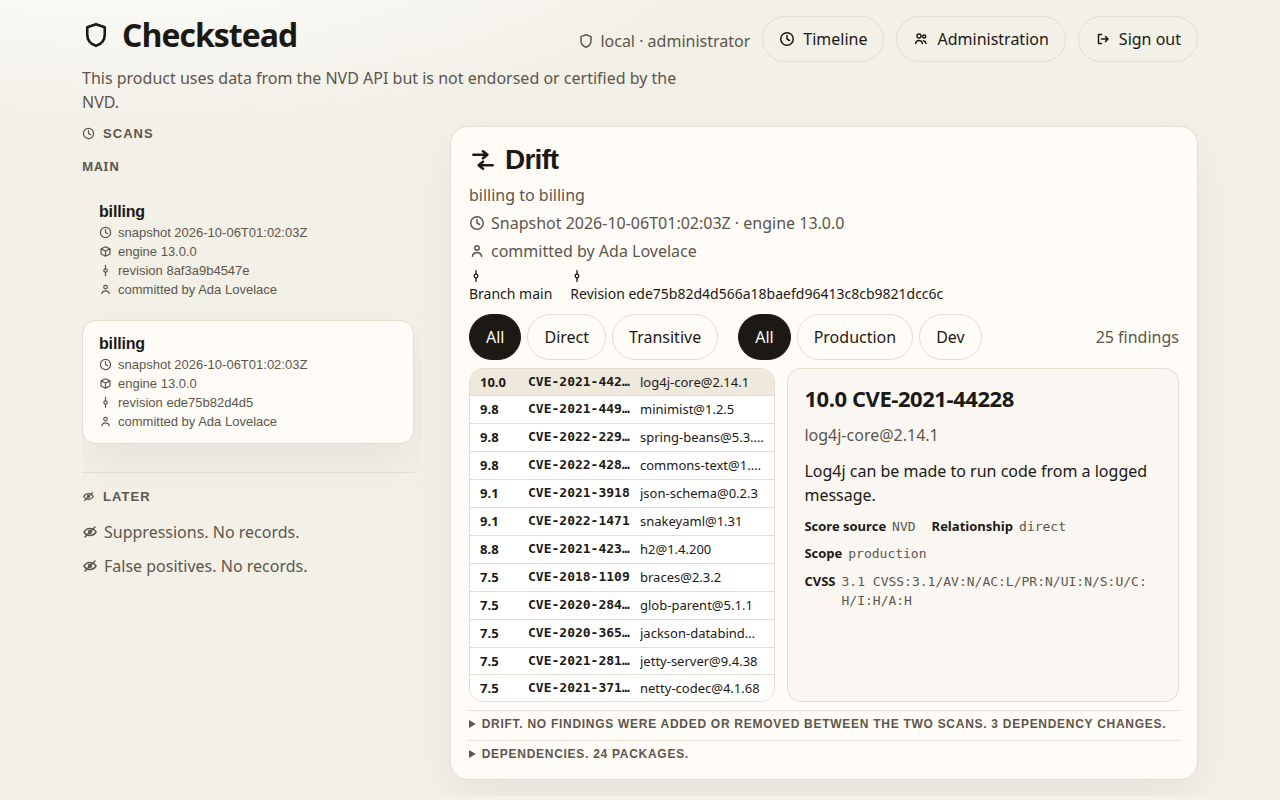
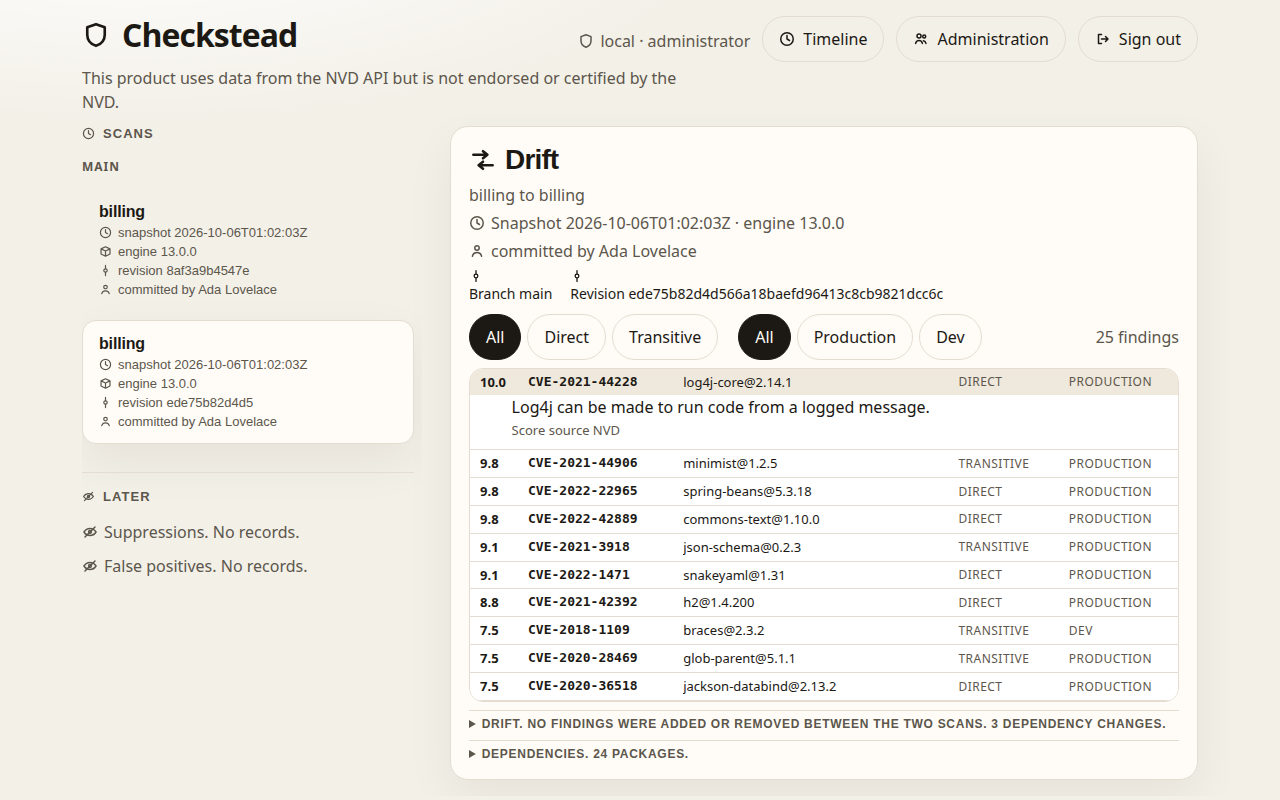
Use one dense finding list instead of a side panel.
Each line shows the score, id, package, relationship, and scope. The selected line expands only for the description and score source, and the list still scrolls inside its pane.

Changed region(s): [[0.375, 0.4375, 0.9062, 0.875], [0.8438, 0.4688, 0.9062, 0.5]]

diff --git a/src/checkstead/ui_page.html b/src/checkstead/ui_page.html
@@ -119,24 +119,17 @@
     .scan-view .identity { margin-top: 4px; }
     .finding-toolbar {
       display: flex;
-      flex-wrap: wrap;
+      flex-wrap: nowrap;
       gap: 8px 16px;
       align-items: center;
-      justify-content: space-between;
       margin: 10px 0 8px;
     }
-    .finding-filters { display: flex; flex-wrap: wrap; gap: 12px 20px; margin: 0; }
-    .finding-filters div { display: flex; flex-wrap: wrap; gap: 6px; }
+    .finding-filters { display: flex; flex-wrap: nowrap; gap: 12px 20px; margin: 0; }
+    .finding-filters div { display: flex; flex-wrap: nowrap; gap: 6px; }
     .finding-filters button[aria-pressed="true"] { background: var(--ink); color: var(--panel); border-color: var(--ink); }
-    .finding-count { margin: 0; color: var(--muted); }
-    .finding-split {
-      flex: 1;
-      min-height: 0;
-      display: grid;
-      grid-template-columns: minmax(220px, 0.9fr) minmax(240px, 1.15fr);
-      gap: 12px;
-    }
+    .finding-count { margin: 0 0 0 auto; color: var(--muted); white-space: nowrap; }
     .finding-window {
+      flex: 1;
       min-height: 0;
       overflow: auto;
       border: 1px solid var(--line);
@@ -148,7 +141,7 @@
     .finding-row { border: 0; border-radius: 0; background: transparent; border-bottom: 1px solid var(--line); }
     .finding-row > button {
       display: grid;
-      grid-template-columns: 2.5rem minmax(6.5rem, 0.9fr) minmax(0, 1.4fr);
+      grid-template-columns: 2.5rem 9.2rem minmax(0, 1fr) 6.4rem 6.2rem;
       gap: 8px;
       align-items: center;
       width: 100%;
@@ -167,25 +160,9 @@
     .vuln-id, .finding-package { overflow: hidden; text-overflow: ellipsis; white-space: nowrap; }
     .vuln-id { font: 600 13px/1.3 ui-monospace, monospace; }
     .finding-kind, .finding-source { font-size: 12px; letter-spacing: 0.04em; text-transform: uppercase; color: var(--muted); }
-    .finding-selected {
-      min-height: 0;
-      overflow: auto;
-      display: grid;
-      align-content: start;
-      gap: 10px;
-      padding: 16px;
-      border: 1px solid var(--line);
-      border-radius: 14px;
-      background: #faf7f2;
-    }
-    .finding-selected h3 {
-      margin: 0;
-      font: 650 22px/1.2 ui-sans-serif, "Segoe UI", sans-serif;
-      letter-spacing: -0.02em;
-      text-transform: none;
-      color: var(--ink);
-    }
+    .finding-extra { display: grid; gap: 2px; padding: 0 10px 8px 2.6rem; }
     .finding-text { margin: 0; }
+    .finding-extra .finding-source { margin: 0; text-transform: none; letter-spacing: 0; font-size: 13px; }
     .fold { margin-top: 8px; border-top: 1px solid var(--line); padding-top: 6px; }
     .fold summary {
       cursor: pointer;
@@ -195,11 +172,6 @@
       text-transform: uppercase;
     }
     .fold[open] { min-height: 0; max-height: 34%; overflow: auto; }
-    .finding-cvss { display: flex; flex-wrap: wrap; gap: 8px 16px; margin: 0; color: var(--muted); font-size: 13px; }
-    .finding-cvss div { display: flex; gap: 6px; }
-    .finding-cvss dt, .finding-cvss dd { margin: 0; }
-    .finding-cvss dt { font-weight: 650; color: var(--ink); }
-    .finding-cvss dd { font-family: ui-monospace, monospace; word-break: break-all; }
     .tag { font-size: 12px; font-weight: 650; letter-spacing: 0.04em; text-transform: uppercase; }
     .added .tag { color: var(--added); }
     .removed .tag { color: var(--removed); }
@@ -241,8 +213,9 @@
     @media (max-width: 800px) {
       main, body.app main { grid-template-columns: 1fr; height: auto; }
       body.app { height: auto; overflow: auto; }
-      .finding-split { grid-template-columns: 1fr; }
-      .finding-window { max-height: 40vh; }
+      .finding-toolbar, .finding-filters, .finding-filters div { flex-wrap: wrap; }
+      .finding-row > button { grid-template-columns: 2.5rem minmax(7rem, 1fr) minmax(0, 1.2fr) auto auto; }
+      .finding-window { max-height: 40vh; flex: none; }
       header, main, #gate, #admin { padding-left: 16px; padding-right: 16px; }
       .timeline { padding-right: 0; }
     }
@@ -543,7 +516,7 @@
       detail.append(identityLine(scan));
       const items = visibleFindings(scan.findings || []);
       detail.append(findingToolbar(items.length));
-      detail.append(findingsSection(scan.findings || [], scan.scoreLines || []));
+      detail.append(findingsSection(scan.findings || []));
       detail.append(disclosure(driftSummary(drift), dependencyChanges(drift)));
       detail.append(disclosure("Dependencies. " + (scan.dependencies || []).length + " packages.", dependencyInventory(scan)));
     }
@@ -599,26 +572,6 @@
       return bar;
     }
 
-    function parseScoreLine(line) {
-      const body = String(line || "").replace(/^finding:\s*/, "");
-      const fields = {};
-      body.split(/\s+/).slice(1).forEach((token) => {
-        const split = token.indexOf("=");
-        if (split > 0) fields[token.slice(0, split)] = token.slice(split + 1);
-      });
-      return fields;
-    }
-
-    function scoreLineFor(item, lines) {
-      const id = item.id || "";
-      const dependency = item.dependency || "";
-      return (lines || []).find((line) => {
-        const body = String(line).replace(/^finding:\s*/, "");
-        if (!body.startsWith(id + " ")) return false;
-        return !dependency || body.includes("dependency=" + dependency);
-      });
-    }
-
     function findingRow(item) {
       const key = findingKey(item);
       const selected = state.openFinding === key;
@@ -630,44 +583,23 @@
       button.append(
         text("span", item.score || "—", "finding-score"),
         text("span", item.id || "—", "vuln-id"),
-        text("span", item.package || item.dependency || "—", "finding-package")
+        text("span", item.package || item.dependency || "—", "finding-package"),
+        text("span", item.relationship || "direct", "finding-kind"),
+        text("span", item.scope || "production", "finding-kind")
       );
       button.addEventListener("click", () => {
         state.openFinding = key;
         render();
       });
       row.append(button);
-      return row;
-    }
-
-    function selectedFinding(item, lines) {
-      const pane = document.createElement("article");
-      pane.className = "finding-selected";
-      if (!item) {
-        pane.append(text("p", "No findings.", "empty"));
-        return pane;
+      if (selected) {
+        const extra = document.createElement("div");
+        extra.className = "finding-extra";
+        extra.append(text("p", item.description || "No description recorded.", "finding-text"));
+        extra.append(text("p", "Score source " + (item.scoreSource || "—"), "finding-source"));
+        row.append(extra);
       }
-      const title = document.createElement("h3");
-      title.textContent = (item.score || "—") + "  " + (item.id || "—");
-      pane.append(title);
-      pane.append(text("p", item.package || item.dependency || "—", "meta"));
-      pane.append(text("p", item.description || "No description recorded.", "finding-text"));
-      const fields = parseScoreLine(scoreLineFor(item, lines) || "");
-      const pairs = [
-        ["Score source", item.scoreSource || "—"],
-        ["Relationship", item.relationship || "direct"],
-        ["Scope", item.scope || "production"],
-        ["CVSS", [fields.cvss, fields.vector].filter(Boolean).join(" ") || item.score || "—"],
-      ];
-      const meta = document.createElement("dl");
-      meta.className = "finding-cvss";
-      pairs.forEach((pair) => {
-        const bit = document.createElement("div");
-        bit.append(text("dt", pair[0]), text("dd", pair[1]));
-        meta.append(bit);
-      });
-      pane.append(meta);
-      return pane;
+      return row;
     }
 
     function visibleFindings(findings) {
@@ -685,21 +617,17 @@
       return items;
     }
 
-    function findingsSection(findings, lines) {
-      const section = document.createElement("section");
-      section.className = "finding-split";
-      const items = visibleFindings(findings);
-      const chosen = items.find((item) => findingKey(item) === state.openFinding) || null;
+    function findingsSection(findings) {
       const findingWindow = document.createElement("div");
       findingWindow.className = "finding-window";
+      const items = visibleFindings(findings);
       if (items.length) {
         const list = document.createElement("ul");
         list.className = "finding-list";
         items.forEach((item) => list.append(findingRow(item)));
         findingWindow.append(list);
       }
-      section.append(findingWindow, selectedFinding(chosen, lines));
-      return section;
+      return findingWindow;
     }
 
     function findingToolbar(total) {
@@ -746,7 +674,7 @@
       detail.append(identityLine(scan));
       const items = visibleFindings(scan.findings || []);
       detail.append(findingToolbar(items.length));
-      detail.append(findingsSection(scan.findings || [], scan.scoreLines || []));
+      detail.append(findingsSection(scan.findings || []));
       detail.append(disclosure("Dependencies. " + (scan.dependencies || []).length + " packages.", dependencyInventory(scan)));
       if (!(scan.scoreLines || []).length) {
         const note = scoreNote(scan.hasScoreSource);

diff --git a/tests/test_history.py b/tests/test_history.py
@@ -208,8 +208,9 @@ class HistoryTests(TestCase):
         self.assertIn("function branchGroups", page)
         self.assertIn("scan.branch", page)
         self.assertIn("finding-window", page)
-        self.assertIn("finding-split", page)
-        self.assertIn("finding-selected", page)
+        self.assertIn("finding-extra", page)
+        self.assertNotIn("finding-split", page)
+        self.assertNotIn("finding-selected", page)
         self.assertIn("findingsSection", page)
         self.assertIn("finding-row", page)
         self.assertIn("finding-filters", page)

diff --git a/README.md b/README.md
@@ -130,13 +130,13 @@ On localhost, the first person uses **Sign in on this computer**. That button is
 
 ![Sign-in page. Sign in on this computer is enabled. GitHub and Microsoft are inactive.](docs/screenshots/sign-in.png)
 
-The first scan on a branch is the scan view. This one records branch `main`. The findings stay on one screen: a compact list on the left, one line per finding (score, vulnerability id, package), and the selected finding on the right. The list is sorted by score, highest first, and the first row starts selected. The right side shows the description, score source, direct or transitive, production or dev, and CVSS. Choosing another row replaces that detail. The list scrolls inside its pane. The filters and the count stay above it. Dependencies stay closed until opened.
+The first scan on a branch is the scan view. This one records branch `main`. Findings are one dense list. Each line shows the score, vulnerability id, package, direct or transitive, and production or dev. The list is sorted by score, highest first, and the first line starts selected. That line expands only enough for the description and the score source. The filters and the count stay on one line. The list scrolls inside its pane. Dependencies stay closed until opened.
 
-![Scan of billing on branch main. The finding list and the selected finding share one screen.](docs/screenshots/scan.png)
+![Scan of billing on branch main. One dense finding list, with the first line expanded.](docs/screenshots/scan.png)
 
-The next scan on that branch is the drift. The branch is `main`. Guava moved from 31.1-jre to 32.1.3-jre, commons-text moved from 1.9 to 1.10.0, and gson arrived. The drift line says no findings were added or removed between the two scans. That detail stays closed until opened. The same split list is on the screen.
+The next scan on that branch is the drift. The branch is `main`. Guava moved from 31.1-jre to 32.1.3-jre, commons-text moved from 1.9 to 1.10.0, and gson arrived. The drift line says no findings were added or removed between the two scans. That detail stays closed until opened. The same dense list is on the screen.
 
-![Drift on branch main. The finding split stays on one screen, with drift closed.](docs/screenshots/drift.png)
+![Drift on branch main. The dense finding list stays on one screen, with drift closed.](docs/screenshots/drift.png)
 
 The first person to sign in is the administrator. Administration is where that person adds later accounts.
 
@@ -406,7 +406,7 @@ The Action passes `GITHUB_REF_NAME` and `GITHUB_SHA` into the scan. `checkstead.
 
 On a pull request the Action fetches the head commit and the base commit, then scans both trees in one run. Both scans use the same snapshot and `--noupdate`. A finding is introduced only when its package identity and vulnerability id are on the head and absent on the base.
 
-Findings in `checkstead.txt` are separate groups: direct and transitive, and production and dev. Each vulnerability has a `description:` line, plus the score, the score source, and the package. The timeline keeps the findings on one screen. The list is one line per finding, sorted by score, highest first. The selected finding shows the description, score source, relationship, scope, and CVSS. The SARIF result carries the same description, score, score source, and package.
+Findings in `checkstead.txt` are separate groups: direct and transitive, and production and dev. Each vulnerability has a `description:` line, plus the score, the score source, and the package. The timeline keeps the findings on one screen. Each line shows the score, vulnerability id, package, direct or transitive, and production or dev, sorted by score, highest first. The selected line expands for the description and the score source. The SARIF result carries the same description, score, score source, and package.
 
 ### Pull requests
 
@@ -468,7 +468,7 @@ The two reports already in `ui/scans` are a pair of fixture scans on the same sn
 
 A scan records a revision when you pass `--revision`, and the GitHub Action passes `GITHUB_SHA`. When that revision is a commit git can see, the report also names the author. The sample reports use the commits of the fixture trees. Both were committed by Cursor Agent.
 
-A scan records the git branch of the tree it scanned, the branch you pass with `--branch`, or `GITHUB_REF_NAME` from the Action. The timeline reads `branch:` from `checkstead.txt` and groups scans into one section per branch. Drift is the change from the previous scan on that same branch. Each finding is one line in a list that scrolls inside its pane: score, vulnerability id, and package. The list is sorted by score, highest first, and the first row starts selected. The selected finding shows the description, score source, direct or transitive, production or dev, and CVSS. Choosing a row replaces that detail. The page does not grow with the finding count. Filters and the count stay on the screen. Dependency and drift details stay closed until opened.
+A scan records the git branch of the tree it scanned, the branch you pass with `--branch`, or `GITHUB_REF_NAME` from the Action. The timeline reads `branch:` from `checkstead.txt` and groups scans into one section per branch. Drift is the change from the previous scan on that same branch. Each finding is one line in a list that scrolls inside its pane: score, vulnerability id, package, direct or transitive, and production or dev. The list is sorted by score, highest first, and the first line starts selected. That line expands only enough for the description and the score source. The page does not grow with the finding count. Filters and the count stay on one line. Dependency and drift details stay closed until opened.
 
 ## Server
 
